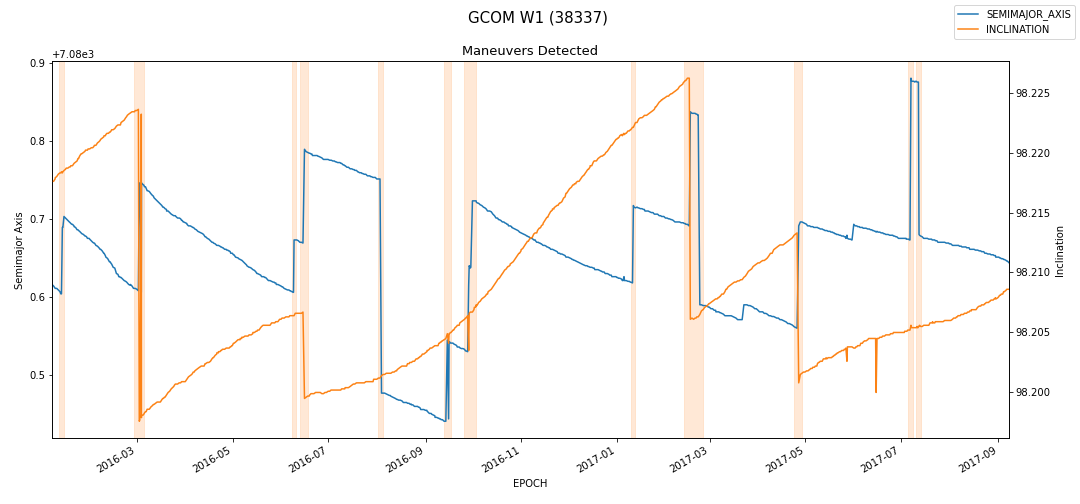
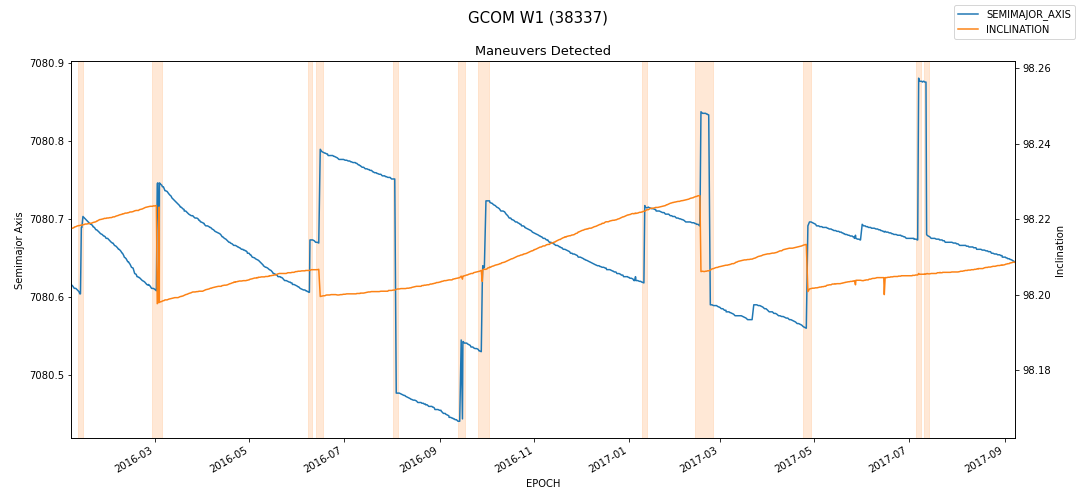
Socrates RMM generate and update maneuver image generate

diff --git a/playground/tim_detect_maneuver/detect_maneuver.py b/playground/tim_detect_maneuver/detect_maneuver.py
@@ -2,6 +2,7 @@ import pandas as pd
 import numpy as np
 import matplotlib.pyplot as plt
 import matplotlib
+import matplotlib.ticker as mtick
 
 def remove_strange_data(input_df):
     # remove points that randomly spiked
@@ -82,15 +83,26 @@ def plot_maneuvers(df, maneuver_results, sat_name):
                     ax[j+1,i].axvspan(er.start, er.end, alpha=0.5, color=cmap((k+1)/(len(thresholds)+2)), label="_")
     return fig
 
+def set_min_ylim(ax,v):
+    sa1,sa2 = ax.get_ylim()
+    if sa2-sa1 < v:
+        sa = (sa1+sa2)/2
+        ax.set_ylim(sa-v/2, sa+v/2)
+
 def plot_combined_maneuvers(fig, ax, df, event_range, sat_name):
     fig.suptitle(sat_name, fontsize=15)
     ax.set_title("Maneuvers Detected", fontsize=13)
     ax.set_xlim(df.index[0], df.index[-1])
     df['SEMIMAJOR_AXIS'].plot(ax=ax, label="SEMIMAJOR_AXIS")
+    # set ylim minimum: 0.1 inclination 0.2 semimajor
     ax2 = ax.twinx()
+    df['INCLINATION'].plot(ax=ax2, color="#fc8215", label="INCLINATION")
     ax.set_ylabel("Semimajor Axis")
     ax2.set_ylabel("Inclination")
-    df['INCLINATION'].plot(ax=ax2, color="#fc8215", label="INCLINATION")
+    ax.ticklabel_format(useOffset=False, style='plain',axis='y')
+    ax2.ticklabel_format(useOffset=False, style='plain',axis='y')
+    set_min_ylim(ax,0.2)
+    set_min_ylim(ax2,0.1)
     for _,er in event_range.iterrows():
         ax.axvspan(er.start, er.end, alpha=0.5, color="#ffd2ae", label="_")
     
@@ -141,3 +153,13 @@ def plot_maneuver_results(df, satcat, norad_id, df_slice, maneuver_functions, co
         fig.tight_layout(pad=1.5)
         fig.set_facecolor("white")
         return raw, fixed, maneuver_results, fig
+    
+    
+def plot_extra_lines(ax, sat, probs, soc_data):
+    for e in sat.index:
+        ax.axvline(x=e, lw=1, c="#00000033")
+    ax2 = ax.twinx()
+    (probs*100).plot(ax=ax2, color="purple", legend=False)
+    ax2.yaxis.set_major_formatter(mtick.PercentFormatter())
+    ax.axvline(x=soc_data.extract_date.min(), lw=2, c="green")
+    ax.axvline(x=soc_data.tca_time.mean(), lw=2, c="red")
